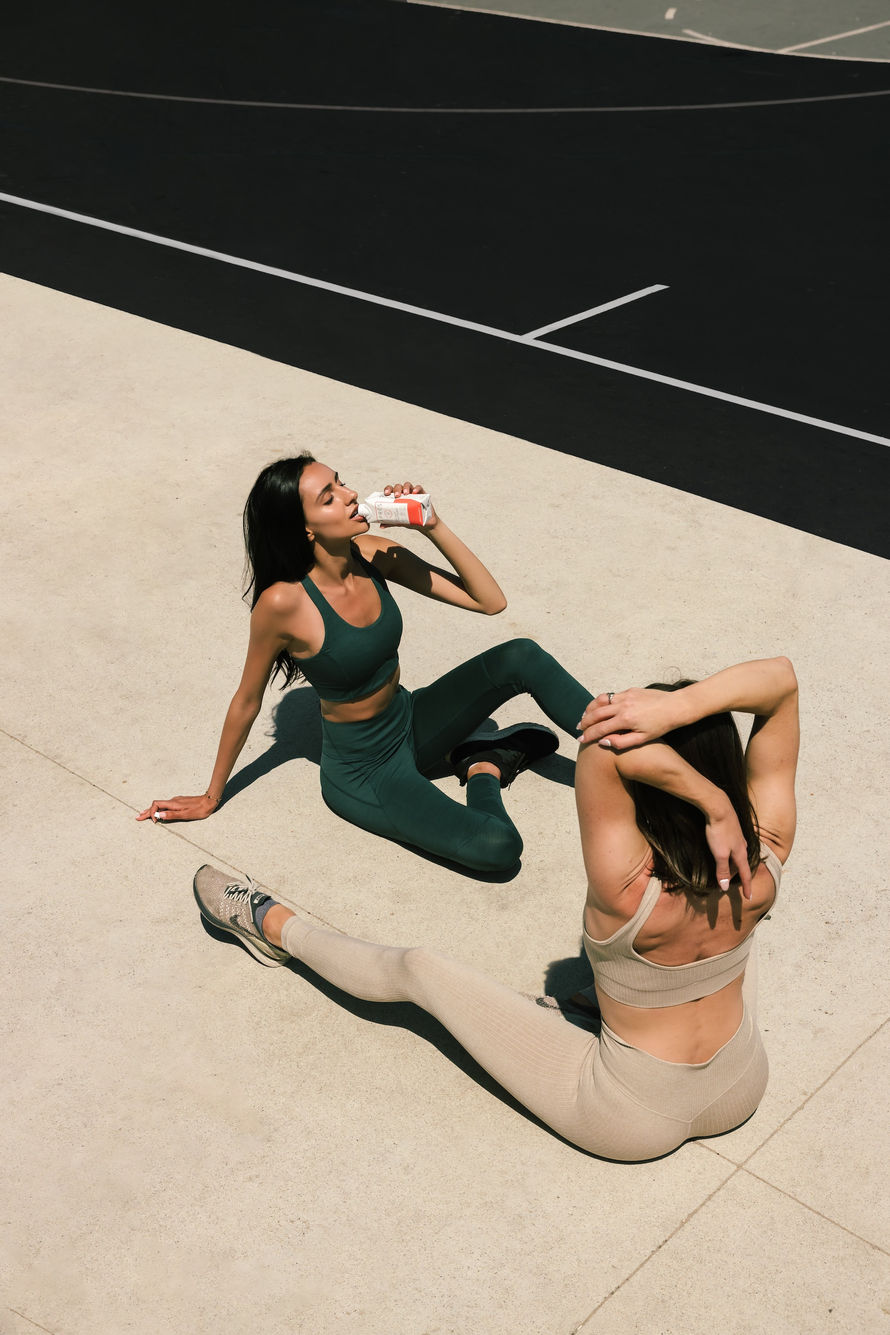
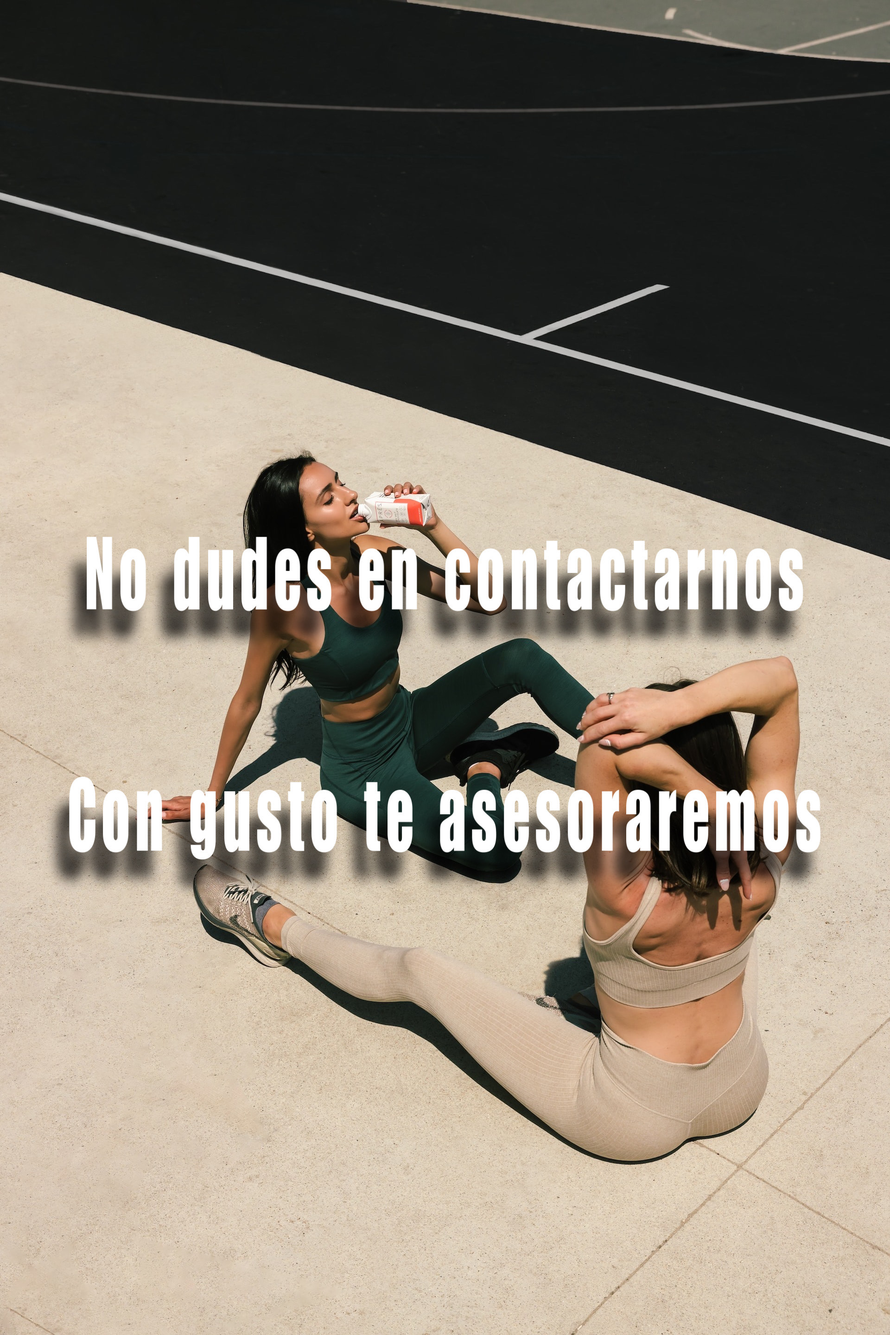
Ajuste de imagenes antes de implementar sass

Changed region(s): [[0.0625, 0.4062, 0.9062, 0.5], [0.0312, 0.5625, 0.9375, 0.6875]]

diff --git a/pages/nutrición.html b/pages/nutrición.html
@@ -48,7 +48,7 @@
                     <img src="../images/alimentación9.jpg" class="d-block w-100" alt="...">
                 </div>
                 <div class="carousel-item">
-                    <img src="../mages/alimentación10.jpg" class="d-block w-100" alt="...">
+                    <img src="../images/alimentación10.jpg" class="d-block w-100" alt="...">
                 </div>
                 <div class="carousel-item">
                     <img src="../images/alimentación2.jpg" class="d-block w-100" alt="...">
@@ -94,8 +94,6 @@
 
             <div class="sectionn_nutri S3">
             <img src="../images/alimentación8.jpg" alt="">
-                    alt="">
-
             </div>
 
 
@@ -167,7 +165,7 @@
                     voluptatem mollitia aliquam. Reprehenderit?</p>
             </div>
             <div class="sectionn_nutri S10">
-               <img src="../images/Carbohidratos.jpg" alt="">
+            <img src="../images/Carbohidratos.jpg" alt="">
             </div>
 
             <div class="sectionn_nutri S11">
@@ -183,7 +181,7 @@
                     voluptatem mollitia aliquam. Reprehenderit?</p>
             </div>
             <div class="sectionn_nutri 12">
-               <img src="../images/alimentación7.jpg" alt="">
+            <img src="../images/alimentación7.jpg" alt="">
             </div>
         </section>
     </main>

diff --git a/pages/suplementación.html b/pages/suplementación.html
@@ -48,7 +48,7 @@
                     <img src="../images/suplementación2.jpg" class="d-block w-100" alt="...">
                 </div>
                 <div class="carousel-item">
-                    <img src="../images/suplementación7.jpg" class="d-block w-100" alt="...">
+                    <img src="../images/suplementación6.jpg" class="d-block w-100" alt="...">
                 </div>
                 <div class="carousel-item">
                     <img src="../images/suplementación11.jpg" class="d-block w-100" alt="...">
@@ -93,9 +93,7 @@
 
 
             <div class="sections_suple S3">
-                <img src="../images/suplementación3.jpg"
-                    alt="">
-
+                <img src="../images/suplementación3.jpg" alt="">
             </div>
 
 
@@ -128,8 +126,7 @@
             </div>
 
             <div class="sections_suple S6">
-                <img src="../images/suplementación8.jpg" alt="">
-                    
+                <img src="../images/suplementación8.jpg" alt="">                    
             </div>
 
 

diff --git a/index.html b/index.html
@@ -51,7 +51,7 @@
                     <img src="images/entrenamiento11.jpg" class="d-block w-100" alt="...">
                 </div>
                 <div class="carousel-item">
-                    <img src="images/alimentación2.jpg" class="d-block w-100" alt="...">
+                    <img src="images/alimentación9.jpg" class="d-block w-100" alt="...">
                 </div>
                 <div class="carousel-item">
                     <img src="images/entrenamiento15.jpg" class="d-block w-100" alt="...">
@@ -133,7 +133,6 @@
 
             <div class="sectioni_index S6">
                 <img src="images/entrenamiento7.jpg" alt="">
-
             </div>
 
 
@@ -185,6 +184,7 @@
         </div>
 
     </footer>
+    
     <script src="https://cdn.jsdelivr.net/npm/bootstrap@5.3.0-alpha3/dist/js/bootstrap.bundle.min.js"
         integrity="sha384-ENjdO4Dr2bkBIFxQpeoTz1HIcje39Wm4jDKdf19U8gI4ddQ3GYNS7NTKfAdVQSZe"
         crossorigin="anonymous"></script>

diff --git a/pages/contacto.html b/pages/contacto.html
@@ -68,7 +68,6 @@
 
         <section class="sectionc">
             <div class="sectionc_conta S_1">
-                <h3>No dudes en contactarnos, con gusto te asesoraremos</h3>
                 <img src="../images/entrenamiento12.jpg" alt="">
 
             </div>
@@ -101,7 +100,6 @@
 
             <div class="sectionc_conta S3">
                 <img src="../images/contacto1.jpg" alt="">
-
             </div>
 
 
@@ -121,12 +119,10 @@
                     Números de contacto: 4515313515 / 5153131313
                     Correo de contacto: xxxxxxxxxxxx@xxxx.xxx
                 </p>
-
             </div>
 
             <div class="sectionc_conta S7">
                 <img src="../images/contacto2.jpg" alt="">
-
             </div>
 
 

diff --git a/css/style.css b/css/style.css
@@ -70,6 +70,7 @@ header {
 
 .carousel-inner {
     height: 700px;
+    transition: cubic-bezier(0.075, 0.82, 0.165, 1);
 }
 
 .carousel-item img {
@@ -77,7 +78,6 @@ header {
     height: 700px;
     object-fit: cover;
     object-position: top;
-
 }
 
 
@@ -614,21 +614,6 @@ p {
 }
 
 
-.S_1 {
-    position: relative;
-    display: inline-block;
-    text-align: center;
-}
-
-.S_1 h3 {
-    position: absolute;
-    top: 10px;
-    left: 10px;
-    color: white;
-    margin: 50px;
-    font-size: 60px;
-    text-shadow: 5px 5px 5px gray;
-}
 
 .sectionc_conta.S2 {
     background-color: rgb(24, 22, 22);

diff --git a/pages/entrenamiento.html b/pages/entrenamiento.html
@@ -95,7 +95,6 @@
 
             <div class="sectione_entre S3">
                 <img src="../images/entrenamiento18.jpg" alt="">
-
             </div>
 
 
